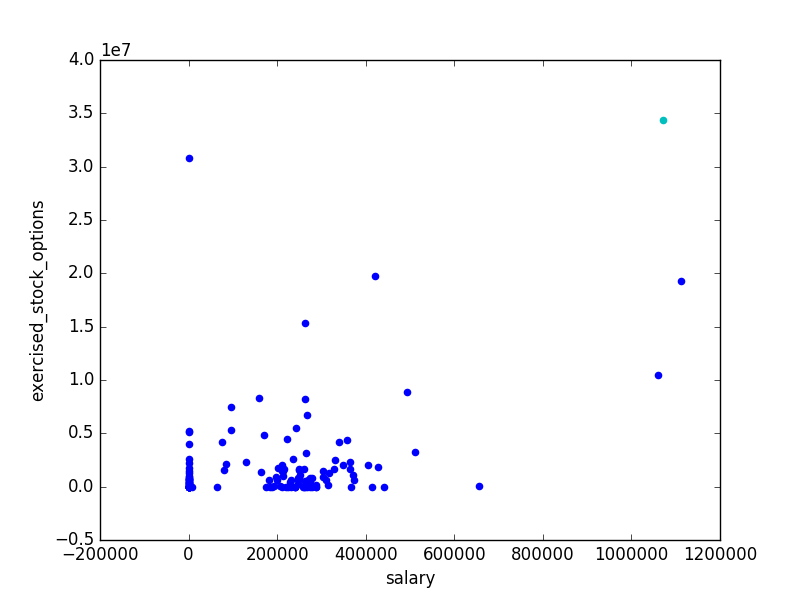
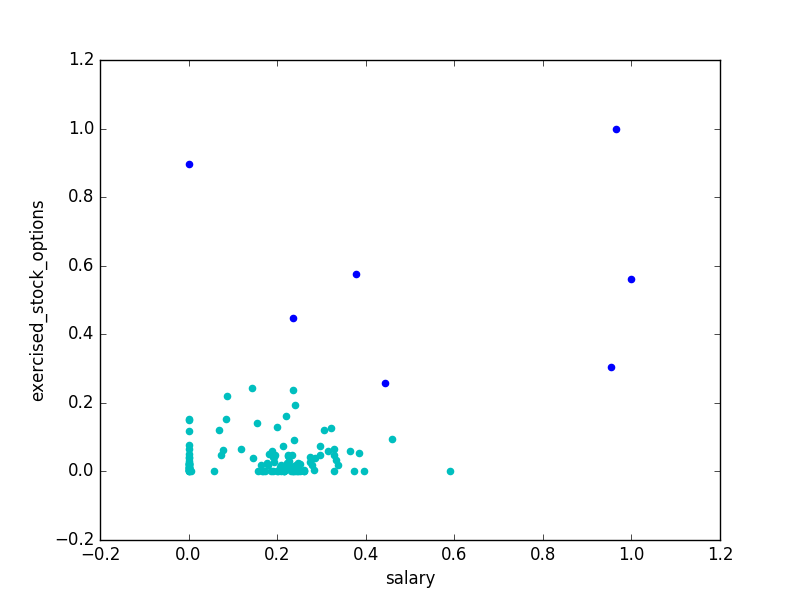
Feature scaling completed

diff --git a/k_means/k_means_cluster.py b/k_means/k_means_cluster.py
@@ -12,6 +12,7 @@ import sys
 sys.path.append("../tools/")
 from feature_format import featureFormat, targetFeatureSplit
 from sklearn.cluster import KMeans
+from sklearn.preprocessing import MinMaxScaler
 import numpy as np
 
 
@@ -63,12 +64,12 @@ feature_1 = 'salary'
 feature_2 = 'exercised_stock_options'
 feature_3 = 'total_payments'
 poi = "poi"
-features_list = [poi, feature_1, feature_2, feature_3]
+features_list = [poi, feature_1, feature_2]
 data = featureFormat(data_dict, features_list)
 poi, finance_features = targetFeatureSplit(data)
 
 def min_max(data, position):
-    finance = np.array(finance_features)
+    finance = np.array(data)
     finance = finance[:, position]
     max_value = np.max(finance)
 
@@ -86,11 +87,17 @@ min_salary_value, max_salary_value = min_max(finance_features, 0)
 print('Min : ' + str(min_salary_value))
 print('Max : ' + str(max_salary_value))
 
+
+scaler = MinMaxScaler()
+finance_features = scaler.fit_transform(finance_features)
+features_test = np.array([[200000, 1000000]]).astype(float)
+print(scaler.transform(features_test))
+
 ### in the "clustering with 3 features" part of the mini-project,
 ### you'll want to change this line to 
 ### for f1, f2, _ in finance_features:
 ### (as it's currently written, the line below assumes 2 features)
-for f1, f2, _ in finance_features:
+for f1, f2 in finance_features:
     plt.scatter(f1, f2)
 plt.show()
 
